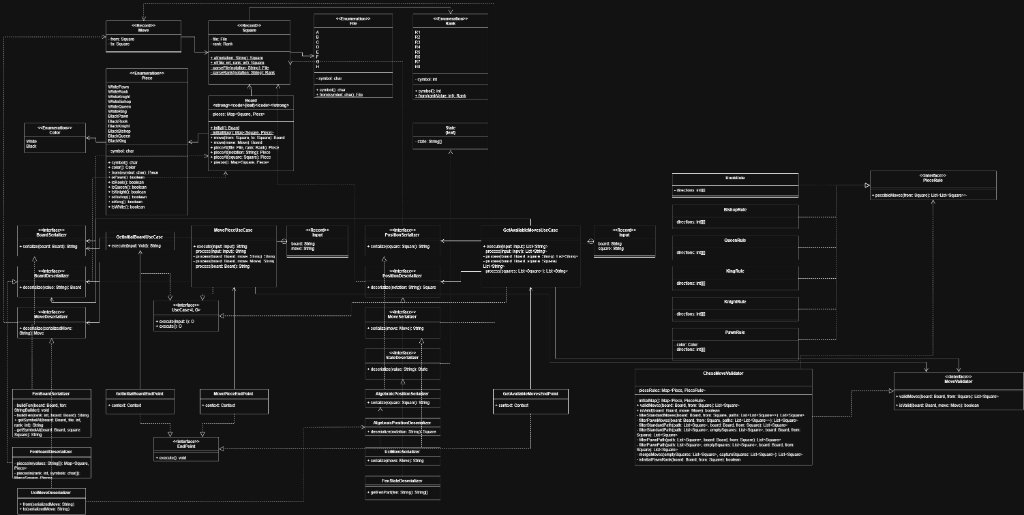
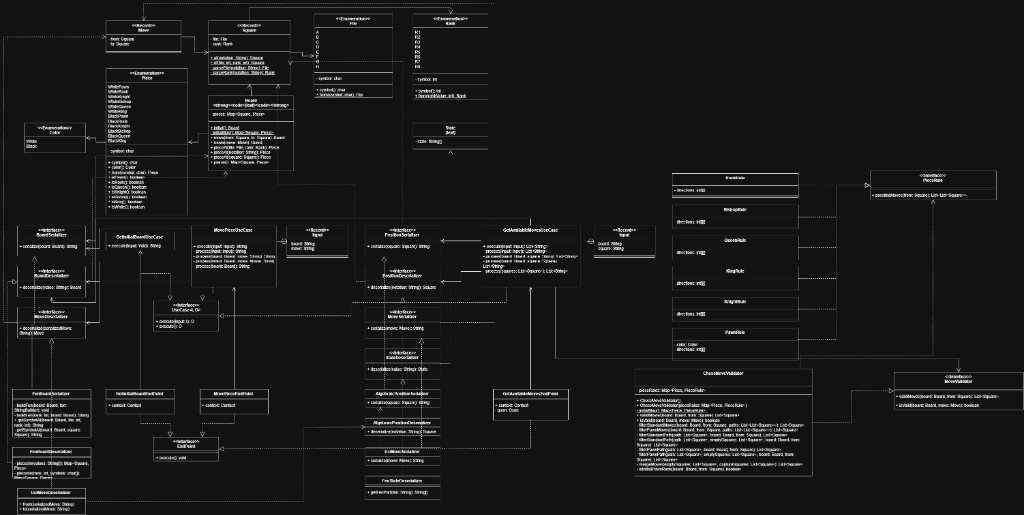
Update backend class diagram with GetAvailableMovesEndPoint and constructors

Changed region(s): [[0.625, 0.7767, 0.7812, 0.932], [0.4688, 0.7767, 0.5, 0.8078]]

diff --git a/backend/game/src/main/java/software/ulpgc/chess/infrastructure/adapters/in/GetAvailableMovesEndPoint.java b/backend/game/src/main/java/software/ulpgc/chess/infrastructure/adapters/in/GetAvailableMovesEndPoint.java
@@ -1,0 +1,23 @@
+package software.ulpgc.chess.infrastructure.adapters.in;
+
+import com.google.gson.Gson;
+import io.javalin.http.Context;
+import software.ulpgc.chess.architecture.domain.GetAvailableMovesUseCase;
+
+public class GetAvalibleEndPoint implements EndPoint{
+
+    private final GetAvailableMovesUseCase useCase;
+    private final Context context;
+    private final Gson gson;
+    public GetAvalibleEndPoint(GetAvailableMovesUseCase useCase, Context context, Gson gson) {
+        this.useCase = useCase;
+        this.context = context;
+        this.gson = gson;
+    }
+
+    @Override
+    public void execute() {
+        GetAvailableMovesUseCase.Input input = new GetAvailableMovesUseCase.Input(context.queryParam("board"), context.queryParam("square"));
+        this.context.contentType("application/json").result(gson.toJson(useCase.execute(input)));
+    }
+}
